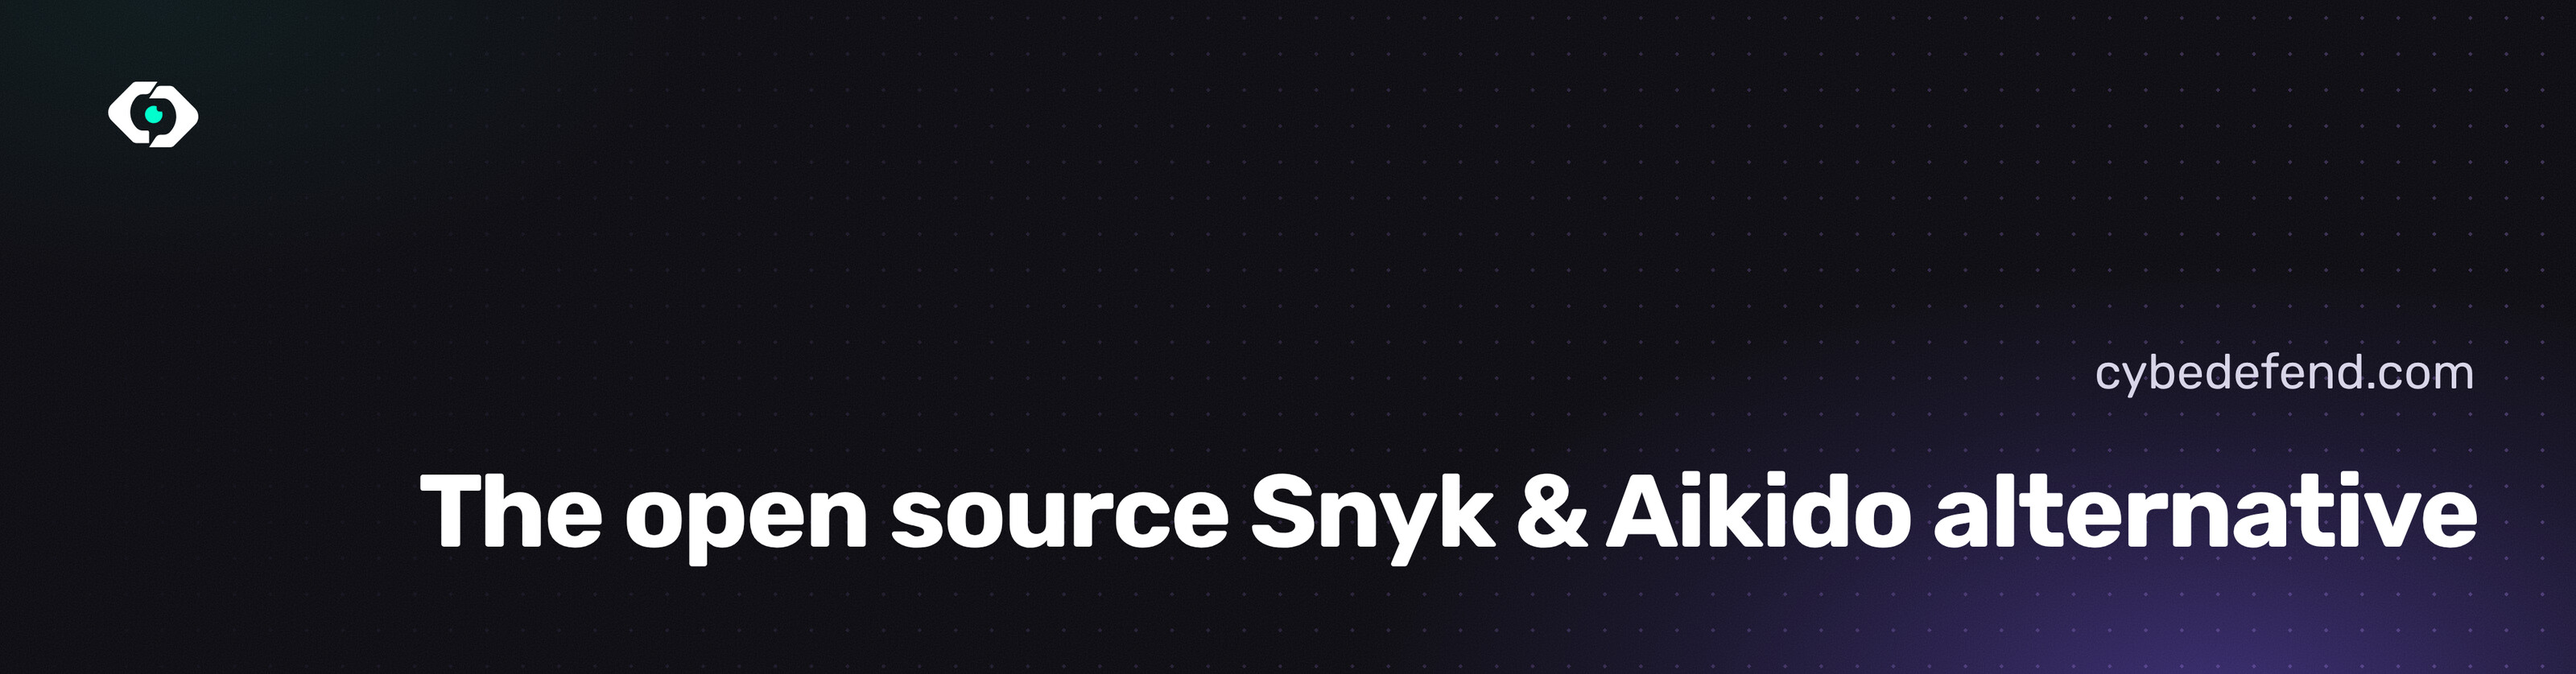
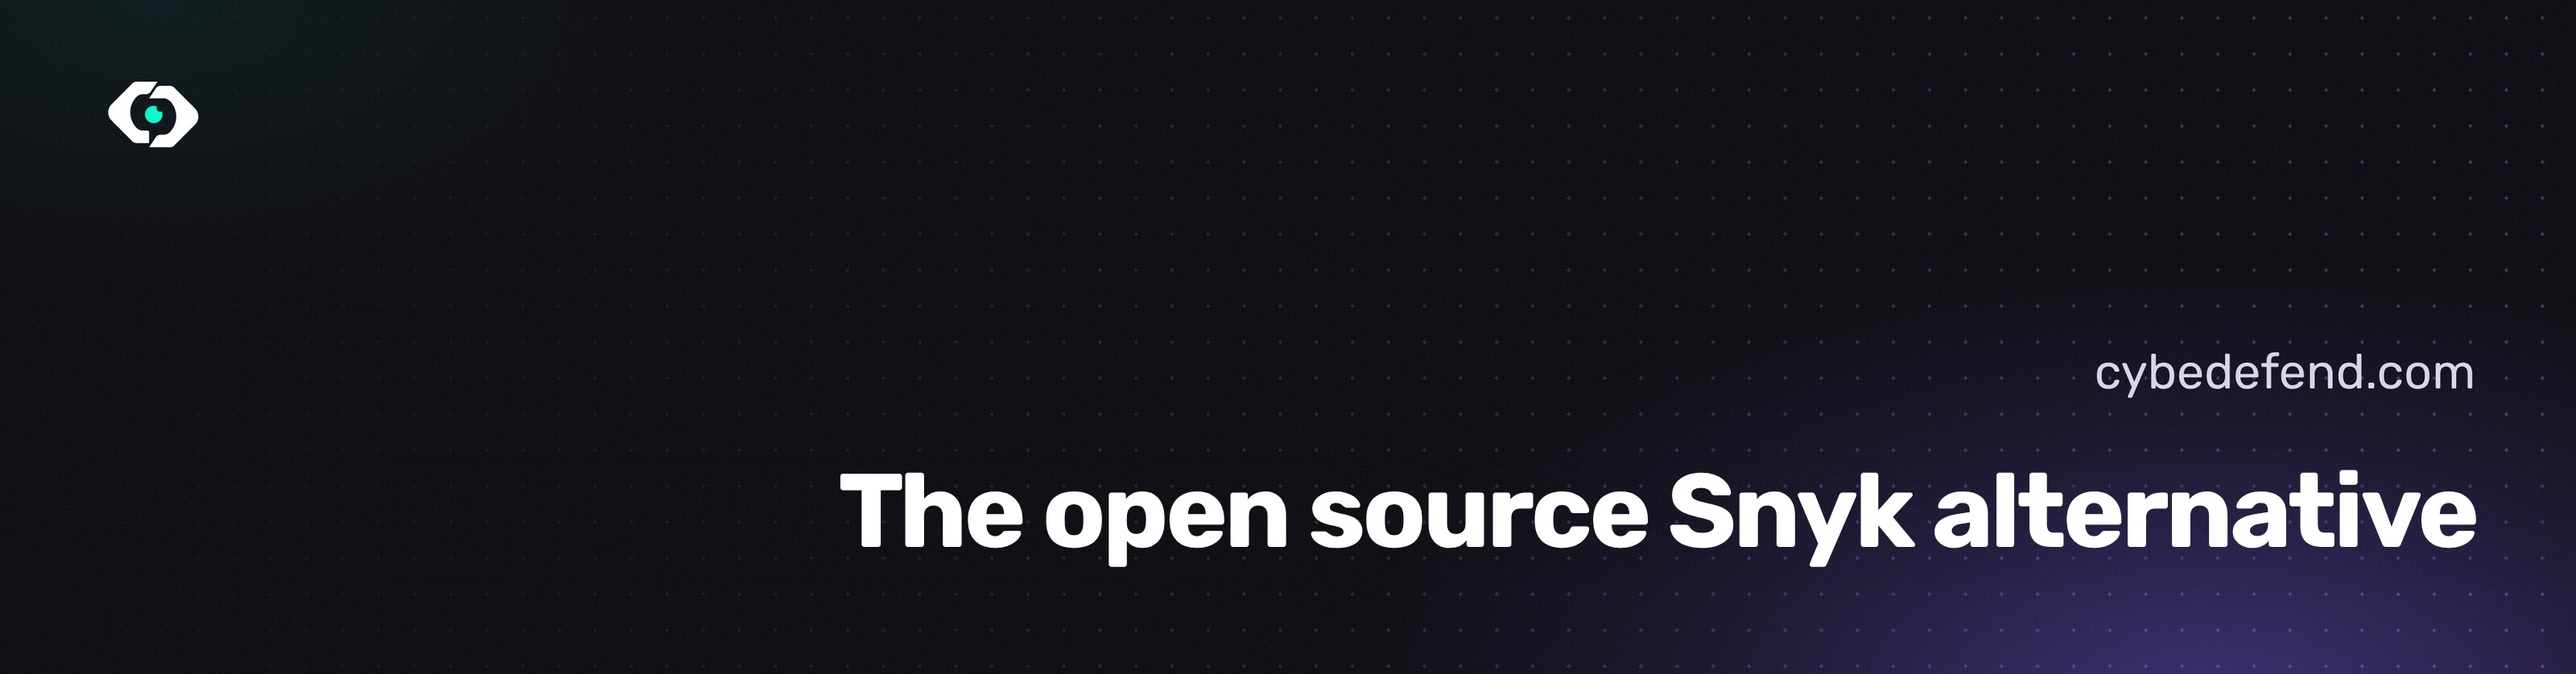
The open source Snyk alternative (#1)

Changed region(s): [[0.1562, 0.6826, 0.75, 0.8377], [0.9062, 0.7136, 0.9375, 0.8067]]

diff --git a/README.md b/README.md
@@ -1,12 +1,12 @@
 <p align="center">
-  <a href="https://cybedefend.com"><img src="assets/banner.jpg" alt="CybeDefend, the open source Snyk and Aikido alternative" width="100%"></a>
+  <a href="https://cybedefend.com"><img src="assets/banner.jpg" alt="CybeDefend, the open source Snyk alternative" width="100%"></a>
 </p>
 
 <div align="center">
 
 # CybeDefend
 
-### Agentic AppSec and ASPM platform, Snyk & Aikido alternative.
+### Agentic AppSec and ASPM platform, for developers and their coding agents.
 
 **Open source.** All your application security, continuously. Every scanner in one place,<br>
 your policies on every commit, one dashboard for your team and your auditor, one command in your coding agent.
@@ -172,10 +172,9 @@ SOC 2 and ISO 27001 auditors ask for proof that you find and fix vulnerabilities
 |---|---|---|
 | **CybeDefend** | Unlimited users, repos and scans, self-hosted | Open, AGPL-3.0 |
 | Snyk | 100 code tests a month, 5 projects | Proprietary |
-| Aikido | 2 users, 10 repositories | Proprietary |
 | GitHub Code Security | Public repos only, then $30 per active committer a month | Proprietary |
 
-<sub>Figures from snyk.io/plans, aikido.dev/pricing and the GitHub changelog of March 4, 2025, checked on November 3, 2026.</sub>
+<sub>Figures from snyk.io/plans and the GitHub changelog of March 4, 2025, checked on November 3, 2026.</sub>
 
 ## Open source or Cloud
 
@@ -204,4 +203,4 @@ Then open the dashboard, create your admin account and a personal token, and add
 
 <br>
 
-<p align="center"><sub>AGPL-3.0. The scanners keep their own licenses. Built by <a href="https://cybedefend.com">CybeDefend</a>.<br>Snyk, Aikido and GitHub are trademarks of their owners. CybeDefend is not affiliated with them.</sub></p>
+<p align="center"><sub>AGPL-3.0. The scanners keep their own licenses. Built by <a href="https://cybedefend.com">CybeDefend</a>.<br>Snyk and GitHub are trademarks of their owners. CybeDefend is not affiliated with them.</sub></p>
